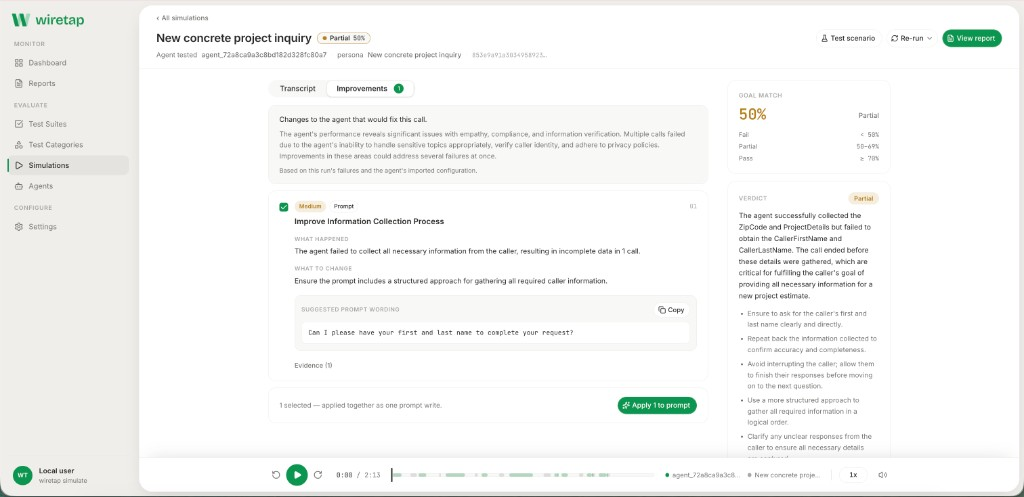
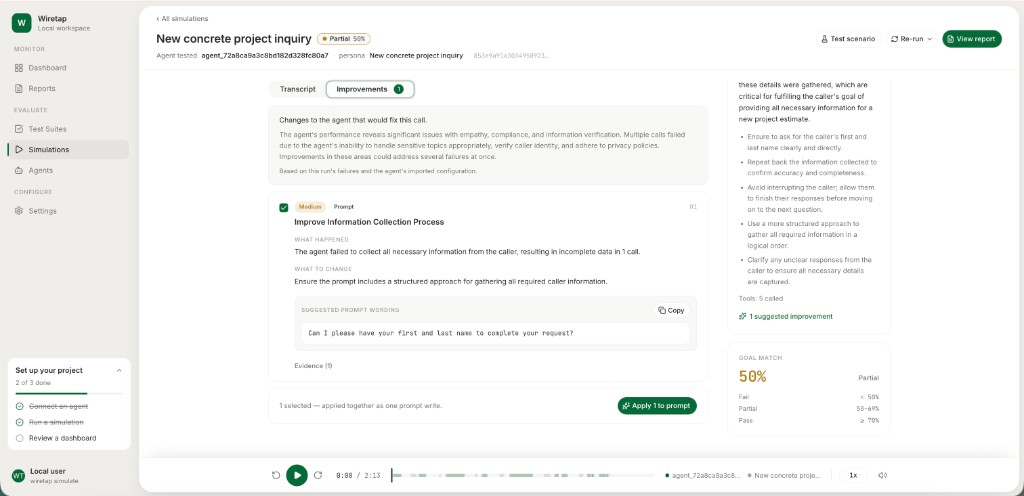
docs: add improvements screenshot to README
Show the scored-call UI with suggested prompt fixes so visitors see what Wiretap delivers beyond pass/fail.

diff --git a/README.md b/README.md
@@ -1,7 +1,7 @@
 # Wiretap
 
-[![License: MIT](https://img.shields.io/badge/License-MIT-green.svg)](LICENSE)
-[![Python 3.11+](https://img.shields.io/badge/python-3.11+-blue.svg)](https://www.python.org/downloads/)
+[License: MIT](LICENSE)
+[Python 3.11+](https://www.python.org/downloads/)
 
 Open-source voice agent testing. Free. Dials your live agent. Not a copy.
 
@@ -21,6 +21,8 @@ Paid tools charge hundreds a month for this. Hamming is about $500/mo. This is a
 
 ---
 
+
+
 ## What it is
 
 A **voice agent** is an AI that talks on a call. Booking, support, sales — same idea.
@@ -30,6 +32,8 @@ A **voice agent** is an AI that talks on a call. Booking, support, sales — sam
 It runs on your computer. From the terminal, or a local UI. Nothing phones home.
 
 ---
+
+
 
 ## Why use it
 
@@ -45,18 +49,22 @@ Wiretap generates those kinds of tests, runs them against the live agent, and sc
 
 ---
 
+
+
 ## Why choose wiretap
 
 The category is full of paid platforms and open-source tools that don't quite test the real thing.
 
-| | Paid tools (Hamming, Cekura, Coval) | Other open source | Wiretap |
-| --- | --- | --- | --- |
-| Price | $100–$500+/mo, or per minute | Free | **$0** — you only pay your own API keys |
-| Tests your live agent | Yes | Often no — replica, or can't reach the deployed agent | **Yes — default** |
-| Open source | No | Yes | **Yes (MIT)** |
-| You can read the scoring logic | No | Rarely disclosed | **Yes — in this repo** |
-| Runs on your machine | No (SaaS) | Often yes | **Yes — local-first** |
-| Terminal + CI | Usually web or a sales call | Mixed | **Yes** |
+
+|                                | Paid tools (Hamming, Cekura, Coval) | Other open source                                     | Wiretap                                 |
+| ------------------------------ | ----------------------------------- | ----------------------------------------------------- | --------------------------------------- |
+| Price                          | $100–$500+/mo, or per minute        | Free                                                  | **$0** — you only pay your own API keys |
+| Tests your live agent          | Yes                                 | Often no — replica, or can't reach the deployed agent | **Yes — default**                       |
+| Open source                    | No                                  | Yes                                                   | **Yes (MIT)**                           |
+| You can read the scoring logic | No                                  | Rarely disclosed                                      | **Yes — in this repo**                  |
+| Runs on your machine           | No (SaaS)                           | Often yes                                             | **Yes — local-first**                   |
+| Terminal + CI                  | Usually web or a sales call         | Mixed                                                 | **Yes**                                 |
+
 
 Hamming, Cekura, and Coval dial live agents too. They also bill you, hide the eval logic, and want a vendor relationship.
 
@@ -66,11 +74,15 @@ Wiretap's job is narrower: **test the agent you actually deployed, for free, wit
 
 If you need production monitoring, auditor-facing reports, or a hosted dashboard, use a paid platform. If you need to test your live agent from your laptop, use wiretap.
 
-![Wiretap local UI showing a scored call, what went wrong, and a suggested prompt fix](docs/simulation-improvements.png)
-
 You don't just get a pass/fail. You get the score, the reason, and wording you can apply to the agent.
 
+![Wiretap local UI showing a scored call, what went wrong, and a suggested prompt fix](docs/simulation-improvements.png)
+
+
+
 ---
+
+
 
 ## What it's not
 
@@ -80,6 +92,8 @@ You don't just get a pass/fail. You get the score, the reason, and wording you c
 - Not magic. Voice testing is not fully deterministic. The judge is pinned at temperature `0.0` so scores don't drift on a whim — and that config is in the repo.
 
 ---
+
+
 
 ## Quick start
 
@@ -104,6 +118,8 @@ wiretap status
 
 > **Tip:** Prefer `uv tool install --editable .` so `wiretap` is on your PATH. `uv run wiretap …` works without installing.
 
+
+
 ### Minimal path (already have keys)
 
 ```bash
@@ -114,6 +130,8 @@ wiretap report
 ```
 
 ---
+
+
 
 ## Local UI
 
@@ -133,6 +151,8 @@ cd ui && npm install && npm run dev      # Vite proxies /api
 ```
 
 ---
+
+
 
 ## Optional extras
 
@@ -163,37 +183,47 @@ Cursor example (`.cursor/mcp.json`):
 
 ---
 
+
+
 ## Commands
 
-| Command | What it does |
-| --- | --- |
-| `wiretap init` | First-run setup (simulator → agent → suite → phone) |
-| `wiretap import …` | Pull a platform agent + generate category tests |
-| `wiretap suite …` | list / show / categories / generate |
-| `wiretap simulate` | Dial (`--all` or `--scenario`, `--transport web\|phone`) |
-| `wiretap report` | Summarize local simulation artifacts |
-| `wiretap export` | Copy a suite out for git or sharing |
-| `wiretap ui run` | Local dashboard |
-| `wiretap status` | What’s configured (no secret values) |
+
+| Command            | What it does                                            |
+| ------------------ | ------------------------------------------------------- |
+| `wiretap init`     | First-run setup (simulator → agent → suite → phone)     |
+| `wiretap import …` | Pull a platform agent + generate category tests         |
+| `wiretap suite …`  | list / show / categories / generate                     |
+| `wiretap simulate` | Dial (`--all` or `--scenario`, `--transport web|phone`) |
+| `wiretap report`   | Summarize local simulation artifacts                    |
+| `wiretap export`   | Copy a suite out for git or sharing                     |
+| `wiretap ui run`   | Local dashboard                                         |
+| `wiretap status`   | What’s configured (no secret values)                    |
+
 
 ---
 
+
+
 ## Platforms
 
-| Platform | Live dial | Notes |
-| --- | --- | --- |
-| Vapi | WebSocket | `VAPI_API_KEY` |
-| Retell | LiveKit | `RETELL_API_KEY` |
-| ElevenLabs Agents | ConvAI WS | `ELEVENLABS_API_KEY` |
-| LiveKit Agents | LiveKit room | `LIVEKIT_API_KEY` + `LIVEKIT_API_SECRET` |
-| Synthflow | WS media | `SYNTHFLOW_API_KEY` + from/to numbers |
-| Bland / Bolna | Import only | Dial via `--transport phone` |
-| Custom / stub | Text | `platform: null`, `transport: text` |
-| Phone / PSTN | Twilio SIP | `uv sync --extra pstn` |
+
+| Platform          | Live dial    | Notes                                    |
+| ----------------- | ------------ | ---------------------------------------- |
+| Vapi              | WebSocket    | `VAPI_API_KEY`                           |
+| Retell            | LiveKit      | `RETELL_API_KEY`                         |
+| ElevenLabs Agents | ConvAI WS    | `ELEVENLABS_API_KEY`                     |
+| LiveKit Agents    | LiveKit room | `LIVEKIT_API_KEY` + `LIVEKIT_API_SECRET` |
+| Synthflow         | WS media     | `SYNTHFLOW_API_KEY` + from/to numbers    |
+| Bland / Bolna     | Import only  | Dial via `--transport phone`             |
+| Custom / stub     | Text         | `platform: null`, `transport: text`      |
+| Phone / PSTN      | Twilio SIP   | `uv sync --extra pstn`                   |
+
 
 Secrets belong in `~/.wiretap/.env` or the environment. Suite YAML stores agent ids and `token_env` **names**, never key values. See [`.env.example`](.env.example).
 
 ---
+
+
 
 ## How scoring works
 
@@ -207,6 +237,8 @@ Test categories used for generation: `emotional`, `linguistic`, `adversarial`, `
 Your agent can *say* it booked an appointment. Wiretap can also check whether the tool call actually fired.
 
 ---
+
+
 
 ## Data layout
 
@@ -225,6 +257,8 @@ Default speech (STT/TTS) is PyAI. You can use other providers. You pay those API
 
 ---
 
+
+
 ## Contributing
 
 See [CONTRIBUTING.md](CONTRIBUTING.md) and the [Code of Conduct](CODE_OF_CONDUCT.md).
@@ -236,6 +270,8 @@ uv sync --extra dev
 uv run ruff check src tests
 uv run pytest -q
 ```
+
+
 
 ## License
 
